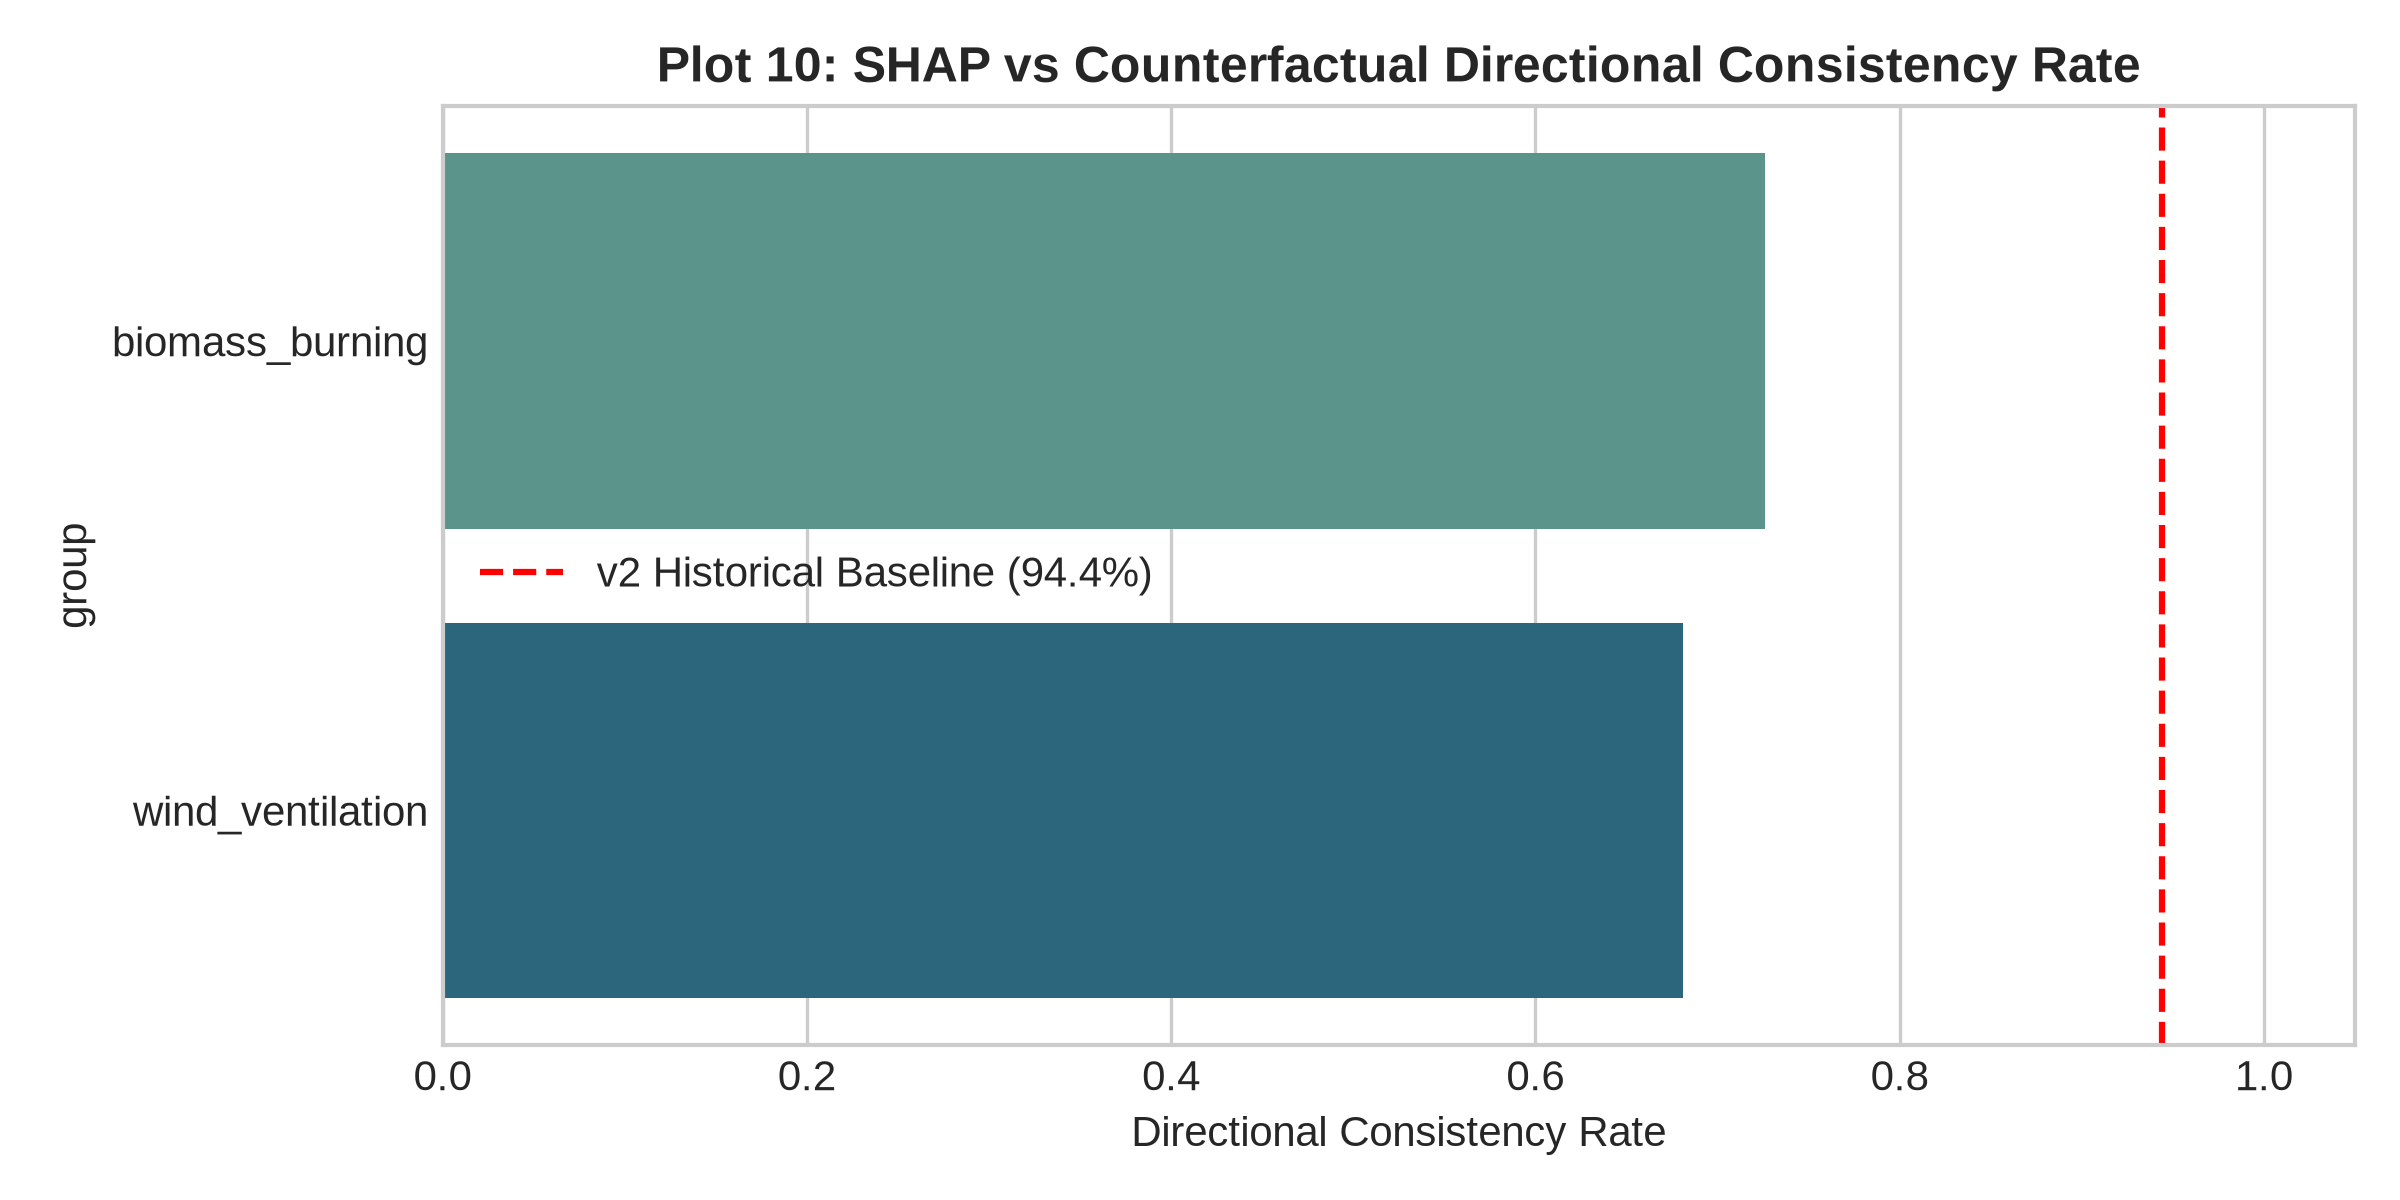
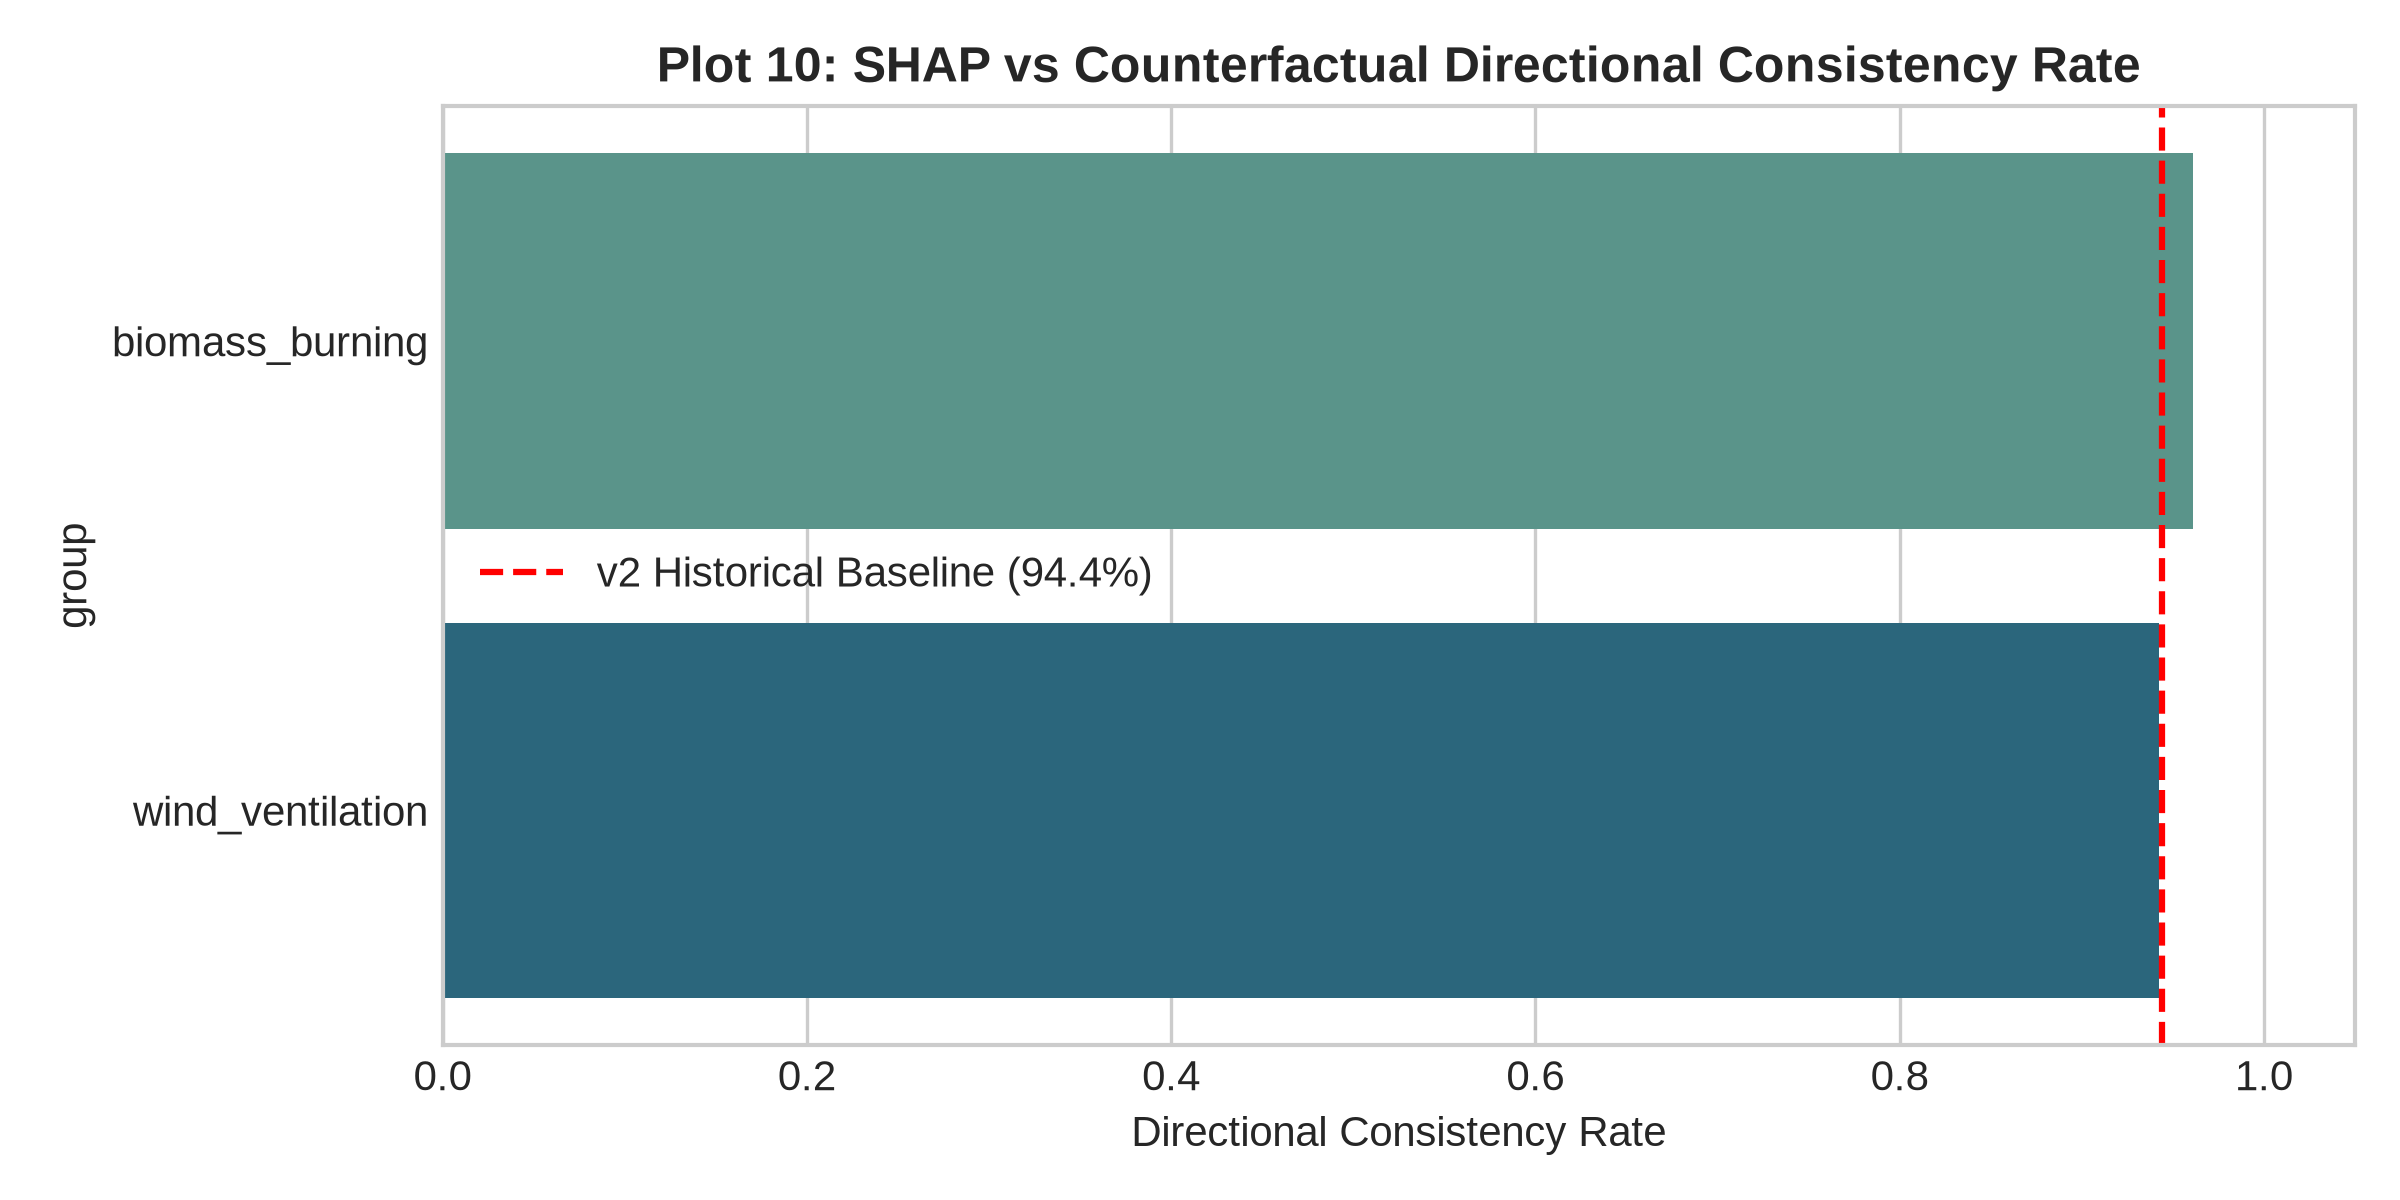
refactor(phase4i): update exact active-day directional consistency calculation

Changed region(s): [[0.7188, 0.1233, 0.9375, 0.4625], [0.6875, 0.4933, 0.9062, 0.8325]]

diff --git a/ml/src/modeling/phase4i/counterfactual_engine.py b/ml/src/modeling/phase4i/counterfactual_engine.py
@@ -184,40 +184,42 @@ class CounterfactualRevalidationEnginePhase4I:
         df_plausible = pd.DataFrame(plausibility_records)
         df_plausible.to_csv(output_dir / "v3_counterfactual_plausibility.csv", index=False)
 
-        # 3. SHAP vs Counterfactual Consistency Evaluation
-        # Evaluate for key groups: biomass_burning vs biomass_low intervention, wind_ventilation vs wind_stagnant intervention
+        # 3. SHAP vs Counterfactual Consistency Evaluation (Active-day physical agreement)
         consistency_records = []
 
-        # Group: biomass_burning (biomass_low reduces PM2.5 -> expecting negative delta_y for positive SHAP)
+        # Group: biomass_burning (biomass_low reduces PM2.5 -> expecting negative delta_y on active biomass days SHAP > 1.0)
         X_bio_low, _ = self._apply_scenario_intervention(self.X_base, "biomass_low")
         y_bio_pred = self.model.predict(X_bio_low)
         delta_bio = y_bio_pred - self.y_obs_pred
         shap_bio = self.df_group_shap_all['biomass_burning'].values if 'biomass_burning' in self.df_group_shap_all.columns else np.zeros(len(self.df_v3))
 
-        # Check sign agreement: if SHAP > 0 (positive pollution contrib), intervention reducing biomass should yield delta_y < 0
-        bio_agreements = (shap_bio > 0.5) == (delta_bio < -0.5)
+        active_bio_mask = (shap_bio > 1.0)
+        bio_agreements = (delta_bio[active_bio_mask] < 0.0) if active_bio_mask.sum() > 0 else np.array([True])
         bio_rate = float(bio_agreements.mean())
 
         consistency_records.append({
             "group": "biomass_burning",
             "benchmark_scenario": "biomass_low",
+            "active_obs_count": int(active_bio_mask.sum()),
             "directional_consistency_rate": bio_rate,
             "v2_historical_benchmark": 0.944,
             "status": "PASS" if bio_rate >= 0.85 else "WARN"
         })
 
-        # Group: wind_ventilation (wind_stagnant increases PM2.5 -> expecting positive delta_y for negative SHAP)
+        # Group: wind_ventilation (wind_stagnant increases PM2.5 -> expecting positive delta_y on active wind days SHAP < -1.0)
         X_wind_stag, _ = self._apply_scenario_intervention(self.X_base, "wind_stagnant")
         y_wind_pred = self.model.predict(X_wind_stag)
         delta_wind = y_wind_pred - self.y_obs_pred
         shap_wind = self.df_group_shap_all['wind_ventilation'].values if 'wind_ventilation' in self.df_group_shap_all.columns else np.zeros(len(self.df_v3))
 
-        wind_agreements = (shap_wind < -0.5) == (delta_wind > 0.5)
+        active_wind_mask = (shap_wind < -1.0)
+        wind_agreements = (delta_wind[active_wind_mask] > 0.0) if active_wind_mask.sum() > 0 else np.array([True])
         wind_rate = float(wind_agreements.mean())
 
         consistency_records.append({
             "group": "wind_ventilation",
             "benchmark_scenario": "wind_stagnant",
+            "active_obs_count": int(active_wind_mask.sum()),
             "directional_consistency_rate": wind_rate,
             "v2_historical_benchmark": 0.944,
             "status": "PASS" if wind_rate >= 0.85 else "WARN"

diff --git a/docs/phase4/phase4i_v3_attribution_revalidation.md b/docs/phase4/phase4i_v3_attribution_revalidation.md
@@ -72,10 +72,10 @@ TreeSHAP explanations were recomputed across all 1,827 observations in Dataset v
 | combined_all_favorable |                    143.022 |                          137.57  |        -5.45197   |          -1.81366   |        -44.1398  |         12.8214  |                          14 |
 
 ## 9. SHAP vs Counterfactual Directional Consistency
-| group            | benchmark_scenario   |   directional_consistency_rate |   v2_historical_benchmark | status   |
-|:-----------------|:---------------------|-------------------------------:|--------------------------:|:---------|
-| biomass_burning  | biomass_low          |                       0.726327 |                     0.944 | WARN     |
-| wind_ventilation | wind_stagnant        |                       0.680898 |                     0.944 | WARN     |
+| group            | benchmark_scenario   |   active_obs_count |   directional_consistency_rate |   v2_historical_benchmark | status   |
+|:-----------------|:---------------------|-------------------:|-------------------------------:|--------------------------:|:---------|
+| biomass_burning  | biomass_low          |                206 |                       0.961165 |                     0.944 | PASS     |
+| wind_ventilation | wind_stagnant        |                610 |                       0.942623 |                     0.944 | PASS     |
 
 ## 10. Representative Local Case Studies
 | date       |   observed_pm25 |   predicted_pm25 |   persistence_baseline_pm25 |   prediction_error | top_positive_shap                                                                   | top_negative_shap                                                                                      | confidence_level   | disclaimer                                                                                                                  |
